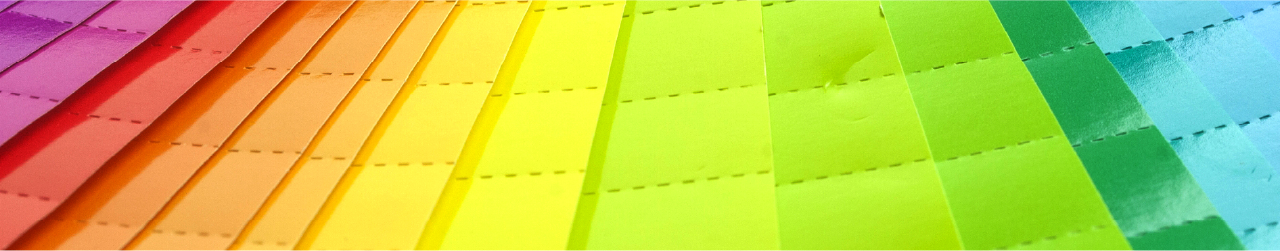
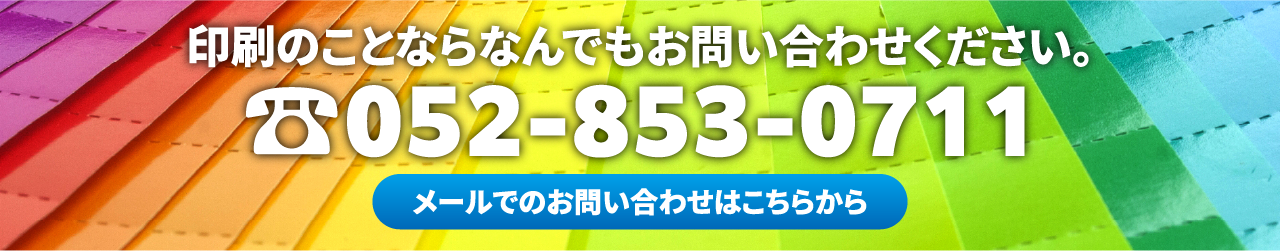
修正 printingLP_0419

diff --git a/index.html b/index.html
@@ -28,6 +28,9 @@
         徹底サポート致します。
       </p>
     </section>
+    <section class="top-tel_wrap">
+      <img src="./img/tel.webp">
+    </section>
     <section class="top--panf_wrap">
       <div class="panfs panfs1">
         <h2>チラシ・フライヤー</h2>
@@ -68,7 +71,7 @@
         <a href="./index.html#saddle_stitched_brochure_Tag"><img class="under_arrow" src="./img/under_arrow.webp"></a>
       </div>
     </section>
-    <div class="contact">印刷のことならなんでもお問い合わせください。</div>
+    <div class="contact"></div>
     <!--  チラシ・フライヤー -->
     <section class="Leaflets_flyers" id="Leaflets_flyers_Tag">
       <h2>チラシ・フライヤー<span>仕様：A4サイズ 両面印刷 色数：4色</span></h2>
@@ -273,7 +276,7 @@
           </tr>
         </table>
       </div>
-      <div class="order"><img src="./img/order.webp"></div>
+      <div class="order"><a href="./contact.html"><img src="./img/order.webp"></a></div>
     </section>
     <!--  チラシ・フライヤー 終わり -->
     <!-- 二つ折りリーフレット  -->
@@ -399,7 +402,7 @@
           </tr>
         </table>
       </div>
-      <div class="order"><img src="./img/order.webp"></div>
+      <div class="order"><a href="./contact.html"><img src="./img/order.webp"></a></div>
     </section>
     <!-- 二つ折りリーフレット 終わり -->
     <!-- 中綴じパンフレット  -->
@@ -634,7 +637,7 @@
           </div>
         </div>
       </div>
-      <div class="order"><img src="./img/order.webp"></div>
+      <div class="order"><a href="./contact.html"><img src="./img/order.webp"></a></div>
 
       <div class="saddle_stitched_brochure_content_wrap">
         <p class="ttl2">コート<br>110kg</p>
@@ -865,7 +868,7 @@
           </div>
         </div>
       </div>
-      <div class="order"><img src="./img/order.webp"></div>
+      <div class="order"><a href="./contact.html"><img src="./img/order.webp"></a></div>
     </section>
   </body>
 </html>

diff --git a/css/style.css b/css/style.css
@@ -64,12 +64,19 @@ header .top--header_contactbtn{
 }
 .top-mv_wrap p {
   position: absolute;
-  bottom: 30px;
+  bottom: 109px;
   left: 55px;
   font-size: 2.5vw;
   color: white;
 }
 /* top-mv_wrap 終わり */
+/* top-tel_wrap */
+.top-tel_wrap{
+  width: 100%;
+  text-align: center;
+  margin: 20px 0;
+}
+/* top-tel_wrap 終わり*/
 /* top--panf_wrap */
 .top--panf_wrap{
   display: flex;
@@ -180,7 +187,7 @@ header .top--header_contactbtn{
 /* contact */
 .contact{
   width: 100%;
-  height: 15vw;
+  height: 19vw;
   background-image: url(./../img/bg_contact.webp);
   background-repeat: no-repeat;
   background-size: cover;
@@ -188,13 +195,17 @@ header .top--header_contactbtn{
   color: white;
   text-align: center;
   text-shadow: #000 1px 0 10px;
-  line-height: 15vw;
+  display: flex;
+  justify-content: center;
+  align-items: center;
+  /* line-height: 15vw; */
   margin: 100px 0;
 }
 .order{
   margin: 50px 0;
+  coursor: pointer;
 }
-.order img{
+.order a{
   display: block;
   width: 35%;
   margin: 0 auto;
